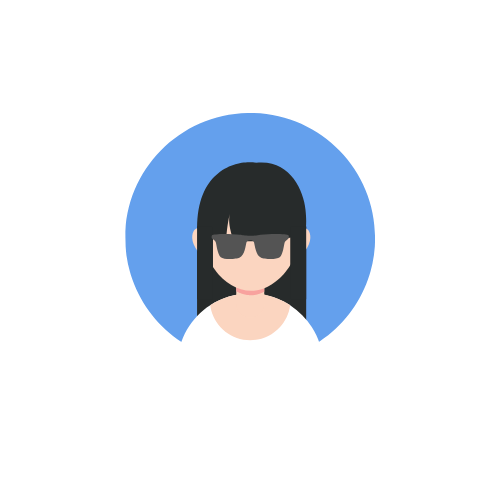
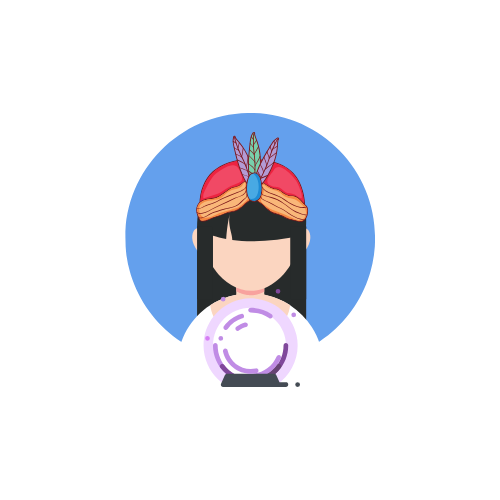
- add/update roles assets- update roles page ui

Changed region(s): [[0.39, 0.27, 0.63, 0.54], [0.39, 0.57, 0.6, 0.78]]

diff --git a/client/src/components/roles/roles.component.css b/client/src/components/roles/roles.component.css
@@ -2,38 +2,41 @@
     margin: 24px;
 }
 
-.role {
-    margin: 4px;
-    padding: 8px;
-    display: flex;
-    align-items: center;
+.role-cards-container {
+    margin: 48px 24px;
 }
 
-.role-image-container {
-    width: 125px;
+.role-card {
+    position: relative;
+    cursor: pointer;
+    border: 1px solid grey;
+    display: flex;
+    flex-direction: column;
+    align-items: center;
+    width: calc(33% - 16px);
+    margin: 8px;
+    border-radius: 4px;
+    box-shadow: grey 2px 2px;
 }
 
 .role-image {
-    width: 125px;
+    width: 200px;
     transform: scale(1.5);
     object-fit: cover;
+    margin-top: 16px;
+    margin-bottom: 24px;
 }
 
-.role-details {
-    flex: 1;
+.role-description {
+    margin: 0 24px;
+    font-size: small;
+    font-style: italic;
+    text-align: center;
 }
 
-@media only screen and (max-width: 480px) {
-    .roles-container {
-        padding: 0;
-    }
-
-    .role {
-        align-items: flex-start;
-        padding: 0;
-    }
-
-    .role-details {
-        padding-top: 8px;
+@media only screen and (max-width: 770px) {
+    .role-card {
+        width: 90%;
+        margin: 8px auto;
     }
 }

diff --git a/client/src/components/roles/roles.component.html b/client/src/components/roles/roles.component.html
@@ -3,13 +3,13 @@
         <div class="row role-heading">
             There are two main roles - Werewolves and Villagers. Games can play with a variation of each of these. This version supports the following roles at the moment. Watch out as we add more roles to level up the fun!
         </div>
-        <div class="row role" *ngFor="let role of data">
-            <div class="role-image-container">
-                <img [src]="role.image" class="role-image" />
-            </div>
-            <div class="role-details">
+        <div class="row role-cards-container">
+            <div class="role-card pt-3 pb-3" *ngFor="let role of data">
                 <h4>{{ role.name }}</h4>
-                <p>{{ role.description }}</p>
+                <img [src]="role.image" class="role-image" />
+                <div class="role-description">
+                    {{ role.description }}
+                </div>
             </div>
         </div>
     </div>
